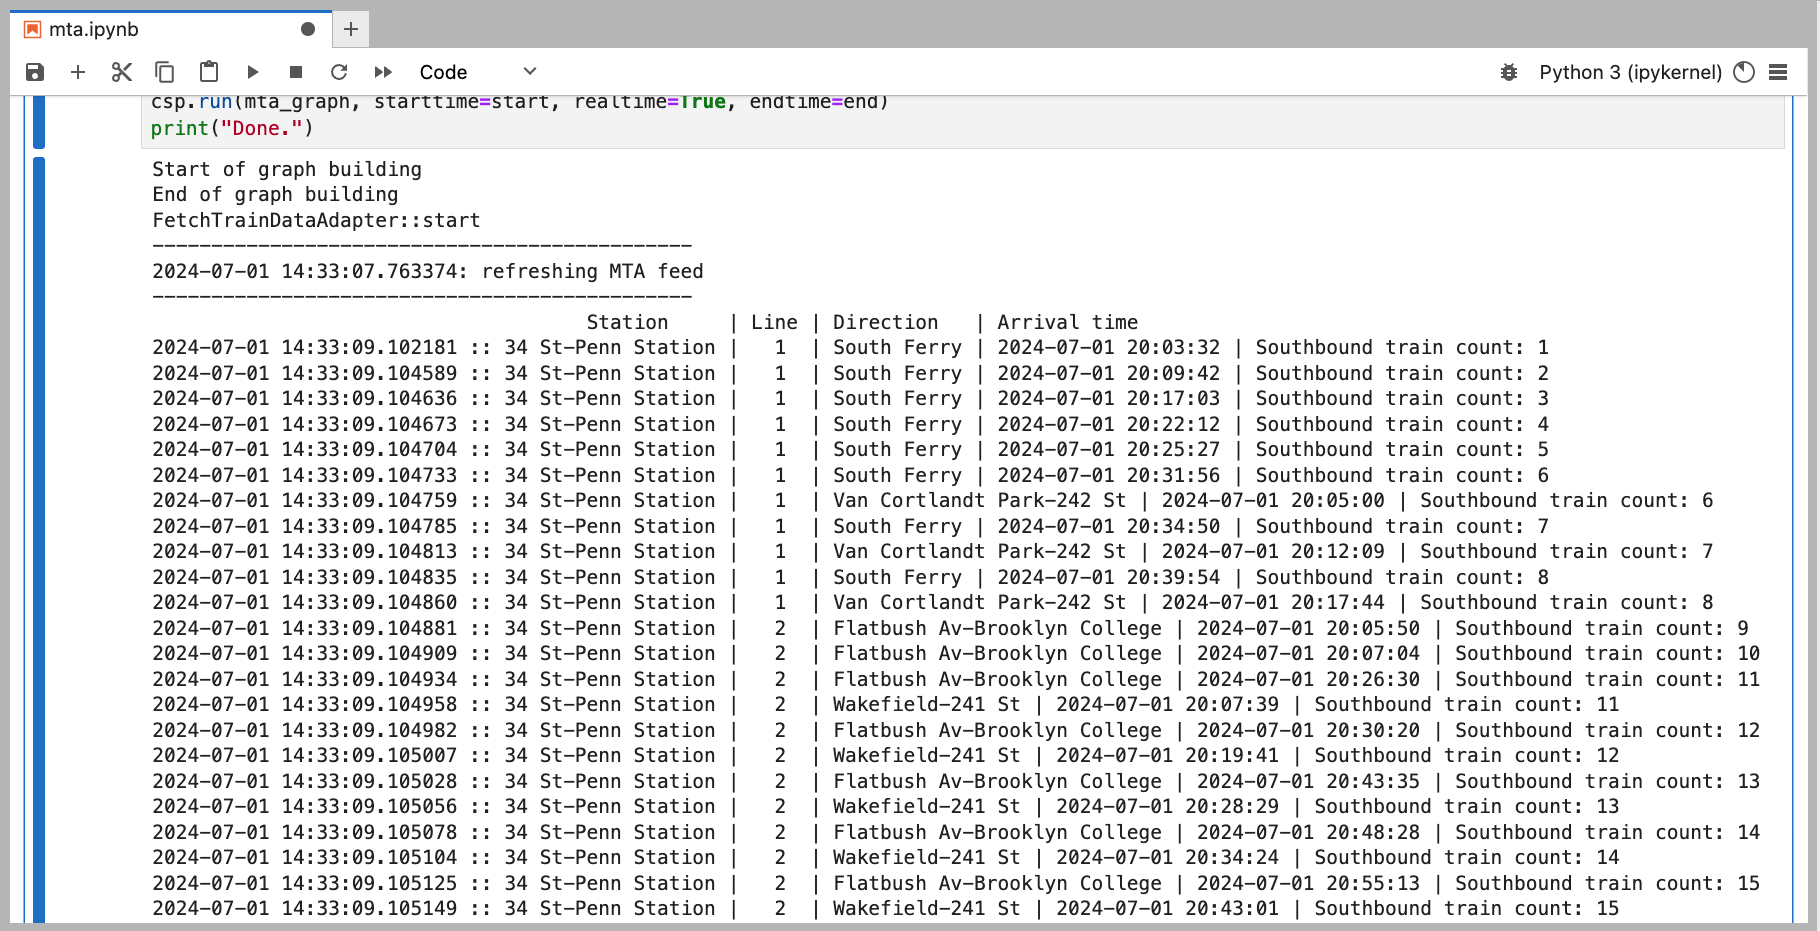
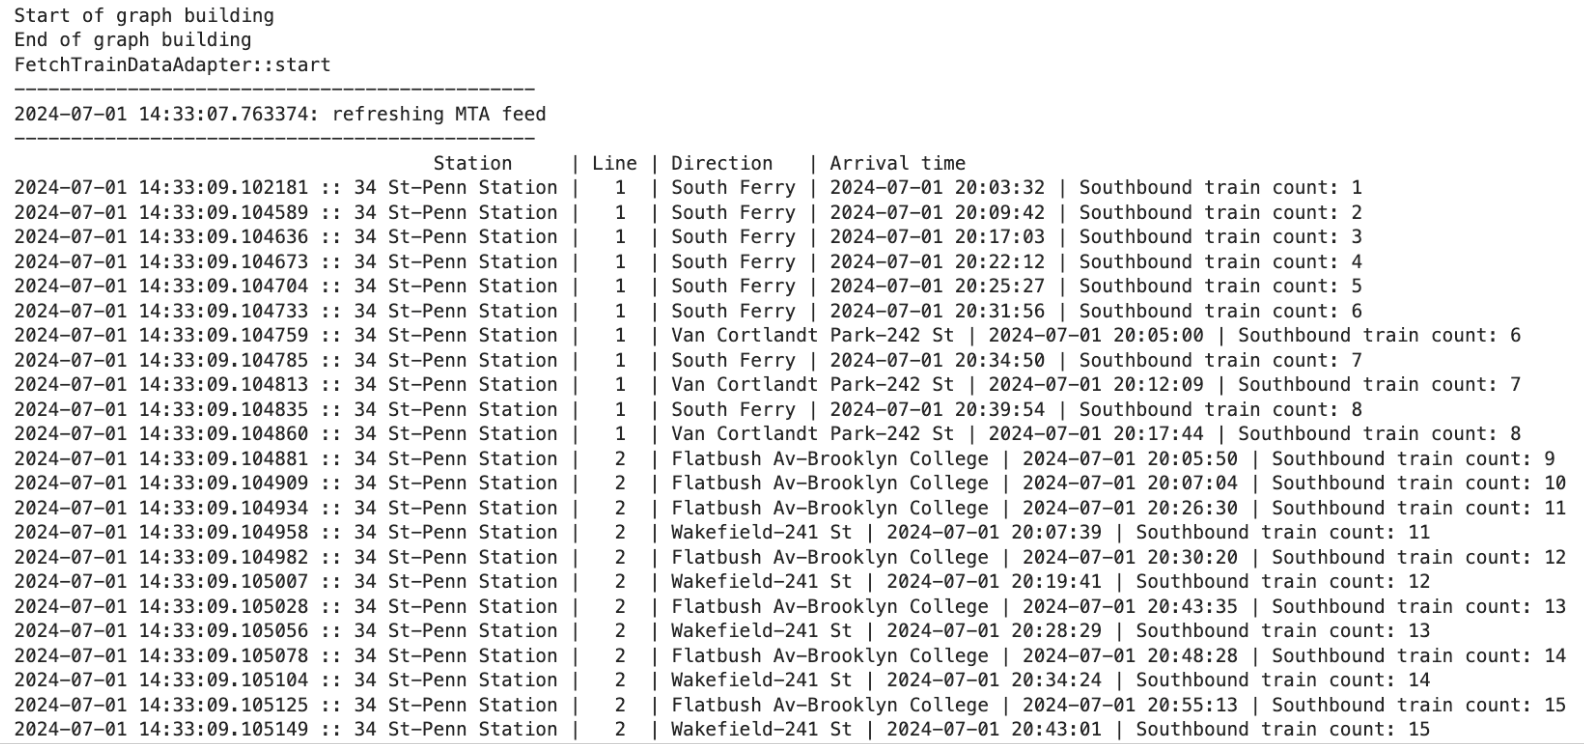
Clean up examples README; crop example photos so unrelated code is not shown; add in the earthquake example

diff --git a/examples/README.md b/examples/README.md
@@ -5,7 +5,7 @@
         <tr>
             <th>Type</th>
             <th>Example</th>
-            <th>Notes</th>
+            <th>Description</th>
         </tr>
     </thead>
     <tbody>
@@ -21,26 +21,25 @@
         </tr>
         <tr>
             <td><a href="./01_basics/e3_show_graph.py">Visualizing a Graph</a></td>
-            <td>Ask-bid spread of trade with graph visualization</td>
+            <td>Bid-ask spread of a trade with graph visualization</td>
         </tr>
         <tr>
             <td><a href="./01_basics/e4_trade_pnl.py">Complete Example (Trading)</a></td>
-            <td>Volume Weighted Average price (VWAP) and the Profit and Loss (PnL) of a trade</td>
+            <td>Volume weighted average price (VWAP) and profit and loss (PnL)</td>
         </tr>
         <!-- Intermediate -->
         <tr>
             <td rowspan=4><a href="./02_intermediate/">Intermediate</a></td>
-            <td><a href="./02_intermediate/e1_feedback.py">Graph Loops (<code>csp.feedback</code>)</a></td>
-            <td>Add cycles in an acyclic graph</td>
+            <td><a href="./02_intermediate/e1_feedback.py">Feedback Connections</a></td>
+            <td>Add a feedback edge between nodes in a graph</td>
         </tr>
         <tr>
             <td><a href="./e02_intermediate/2_stats.py">Statistics Nodes</a></td>
-            <td>Statistical computations like rolling VWAP, Exponential Moving Average (EMA), and cumulative volume of
-                trades</td>
+            <td>Use the CSP statistics library on simulated trading data</td>
         </tr>
         <tr>
             <td><a href="./02_intermediate/e3_numpy_stats.py">Statistics Nodes with Numpy</a></td>
-            <td>Rolling window statistics on a set of three symbols using NumPy ndarrays</td>
+            <td>Rolling window statistics on a set of three symbols using NumPy arrays</td>
         </tr>
         <tr>
             <td><a href="./02_intermediate/e4_exprtk.py">Expression Nodes with <code>exprtk</code></a></td>
@@ -51,13 +50,13 @@
             <td rowspan=4><a href="./03_using_adapters/">Using Adapters</a></td>
             <td><a href="./03_using_adapters/kafka/e1_kafka.py">Kafka Adapter Example</a></td>
             <td>
-                Stream data from a Kafka bus using `KafkaAdapterManager` and `MessageMapper`s
+                Stream data from a Kafka bus using KafkaAdapterManager and MessageMapper
             </td>
         </tr>
         <tr>
             <td><a href="./03_using_adapters/parquet/e1_parquet_write_read.py">Parquet Adapter Example</a></td>
             <td>
-                Read and write CSP-friendly data from/to Parquet files
+                Read from and write CSP data to Parquet files
             </td>
         </tr>
         <tr>
@@ -74,44 +73,77 @@
         </tr>
         <!-- Writing Adapters -->
         <tr>
-            <td rowspan=7><a href="./04_writing_adapters/">Writing Adapters</a></td>
-            <td colspan=2><a href="./04_writing_adapters/e1_generic_push_adapter.py">Generic Push Adapter</a></td>
+            <td rowspan=8><a href="./04_writing_adapters/">Writing Adapters</a></td>
+            <td><a href="./04_writing_adapters/e1_generic_push_adapter.py">Generic Push Adapter</a></td>
+            <td>
+                Push real-time data into a CSP graph
+            </td>
         </tr>
         <tr>
-            <td colspan=2><a href="./04_writing_adapters/e2_pullinput.py">Pull Input Adapter</a></td>
+            <td><a href="./04_writing_adapters/e2_pullinput.py">Pull Input Adapter</a></td>
+            <td>
+                Replay historical data using a pull adapter
+            </td>
         </tr>
         <tr>
-            <td colspan=2><a href="./04_writing_adapters/e3_adaptermanager_pullinput.py">Pull Input Adapter with Adapter
+            <td><a href="./04_writing_adapters/e3_adaptermanager_pullinput.py">Pull Input Adapter with Adapter
                     Manager</a></td>
+            <td>
+                Provide data to multiple input adapters from a single source
+            </td>
         </tr>
         <tr>
-            <td colspan=2><a href="./04_writing_adapters/e4_pushinput.py">Push Input Adapter</a></td>
+            <td><a href="./04_writing_adapters/e4_pushinput.py">Push Input Adapter</a></td>
+            <td>
+                Write your own push adapter for real-time data
+            </td>
         </tr>
         <tr>
-            <td colspan=2><a href="./04_writing_adapters/e5_adaptermanager_pushinput.py">Push Input Adapter with Adapter
+            <td><a href="./04_writing_adapters/e5_adaptermanager_pushinput.py">Push Input Adapter with Adapter
                     Manager</a></td>
+            <td>
+                Use an adapter manager with real-time data sources
+            </td>
         </tr>
         <tr>
-            <td colspan=2><a href="./04_writing_adapters/e6_outputadapter.py">Output Adapter</a></td>
+            <td><a href="./04_writing_adapters/e6_outputadapter.py">Output Adapter</a></td>
+            <td>
+                Create a custom writer for CSP output data
+            </td>
         </tr>
         <tr>
-            <td colspan=2><a href="./04_writing_adapters/e7_adaptermanager_inputoutput.py">Complete Input/Output Adapter with
+            <td><a href="./04_writing_adapters/e7_adaptermanager_inputoutput.py">Complete Input/Output Adapter with
                     Adapter Manager</a></td>
+            <td>
+                Manage input and output adapters with a single adapter manager
+            </td>
+        </tr>
+        <tr>
+            <td><a href="./07_end_to_end/earthquake.ipynb">Push-Pull Input Adapter for Earthquake Data</a></td>
+            <td>
+                Create a push-pull adapter which transitions from replay to live execution
+            </td>
         </tr>
         <!-- Writing C++ Nodes and Adapters -->
         <tr>
             <td rowspan=2><a href="./05_cpp/">Writing C++ Nodes and Adapters</a></td>
-            <td colspan=2><a href="./05_cpp/1_cpp_node/">C++ Node</a></td>
+            <td><a href="./05_cpp/1_cpp_node/">C++ Node</a></td>
+            <td>
+                Extend CSP with a pig latin C++ node 
+            </td>
         </tr>
         <tr>
-            <td colspan=2><a href="./05_cpp/2_cpp_node_with_struct/">C++ Node with <code>csp.Struct</code></a></td>
+            <td><a href="./05_cpp/2_cpp_node_with_struct/">C++ Node with <code>csp.Struct</code></a></td>
+            <td>
+                Write a C++ node with a csp.Struct input
+            </td>
         </tr>
         <!-- Advanced -->
         <tr>
             <td rowspan=2><a href="./06_advanced/">Advanced</a></td>
             <td><a href="./06_advanced/e1_dynamic.py">Dynamic Graphs</a></td>
             <td>
-                Update shape of graph at runtime
+                Update the shape of a graph at runtime
             </td>
         </tr>
         <tr>
@@ -122,22 +154,28 @@
         </tr>
         <!-- End-to-end examples -->
         <tr>
-            <td rowspan=3><a href="./07_end_to_end/">End-to-end examples</a></td>
+            <td rowspan=4><a href="./07_end_to_end/">End-to-end examples</a></td>
             <td><a href="./07_end_to_end/mta.ipynb">MTA Subway Data</a></td>
             <td>
-                Access real-time NYC Transportation data feed
+                Access real-time New York City transit data
             </td>
         </tr>
         <tr>
             <td><a href="./07_end_to_end/seismic_waveform.ipynb">Seismic Data with obspy</a></td>
             <td>
-                Analyze Seismic waveform data and compare it with batch processing methods
+                Analyze seismic waveforms and compare with batch processing methods
             </td>
         </tr>
         <tr>
             <td><a href="./07_end_to_end/wikimedia.ipynb">Wikipedia Updates and Edits</a></td>
             <td>
                 Monitor live updates to all Wikimedia sites
+            </td>
+        </tr>
+        <tr>
+            <td><a href="./07_end_to_end/earthquake.ipynb">World Earthquake Dashboard</a></td>
+            <td>
+                Display recent earthquakes on a live-updating world map
             </td>
         </tr>
         <!-- Others -->

diff --git a/docs/wiki/Home.md b/docs/wiki/Home.md
@@ -26,16 +26,12 @@ CSP (Composable Stream Processing) is a library for high-performance real-time e
 
 <table>
   <tr>
-    <td>Seismic waveform data processing</td>
-    <td>NYC real-time transportation analysis</td>
-    <td>Wikimedia page edits monitoring</td>
+    <td>Real-time public transportation</td>
+    <td>Tracking Wikipedia page edits</td>
+    <td>Processing seismic waveforms</td>
+    <td>Visualizing global earthquakes</td>
   </tr>
   <tr>
-    <td>
-      <a href="https://github.com/Point72/csp/blob/main/examples/07_end_to_end/seismic_waveform.ipynb">
-        <img src="images/seismic-waveform-example.png" width="300px">
-      </a>
-    </td>
     <td>
       <a href="https://github.com/Point72/csp/blob/main/examples/07_end_to_end/mta.ipynb">
         <img src="images/mta-example.png" width="300px">
@@ -46,10 +42,20 @@ CSP (Composable Stream Processing) is a library for high-performance real-time e
         <img src="images/wikimedia-example.png" width="300px">
       </a>
     </td>
+    <td>
+      <a href="https://github.com/Point72/csp/blob/main/examples/07_end_to_end/seismic_waveform.ipynb">
+        <img src="images/seismic-waveform-example.png" width="300px">
+      </a>
+    </td>
+    <td>
+      <a href="https://github.com/Point72/csp/blob/main/examples/07_end_to_end/earthquake.ipynb">
+        <img src="images/earthquake-example.png" width="300px">
+      </a>
+    </td>
   </tr>
 </table>
 
-Check out the [examples directory](https://github.com/Point72/csp/tree/main/examples) for more CSP features and use cases.
+Check out the [examples directory](https://github.com/Point72/csp/tree/main/examples) for a comprehensive collection of CSP applications.
 
 ## Community
 
